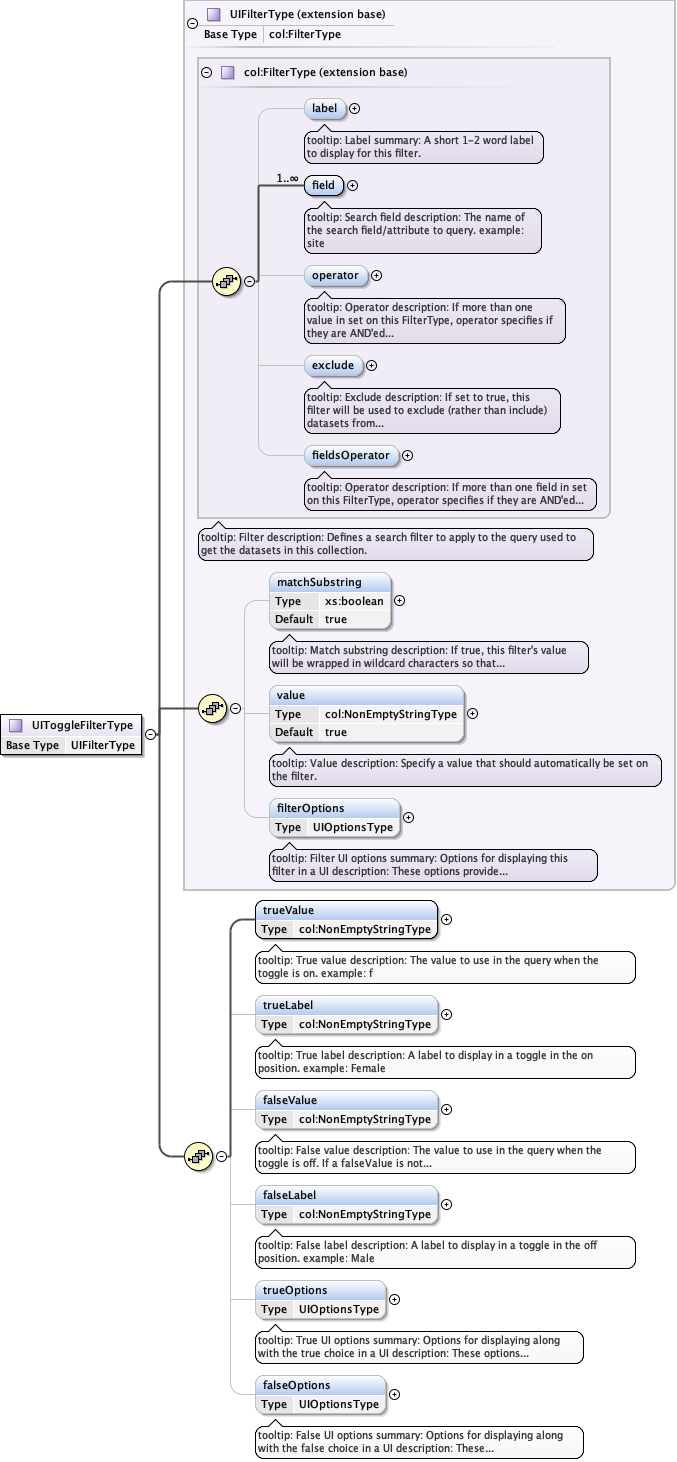
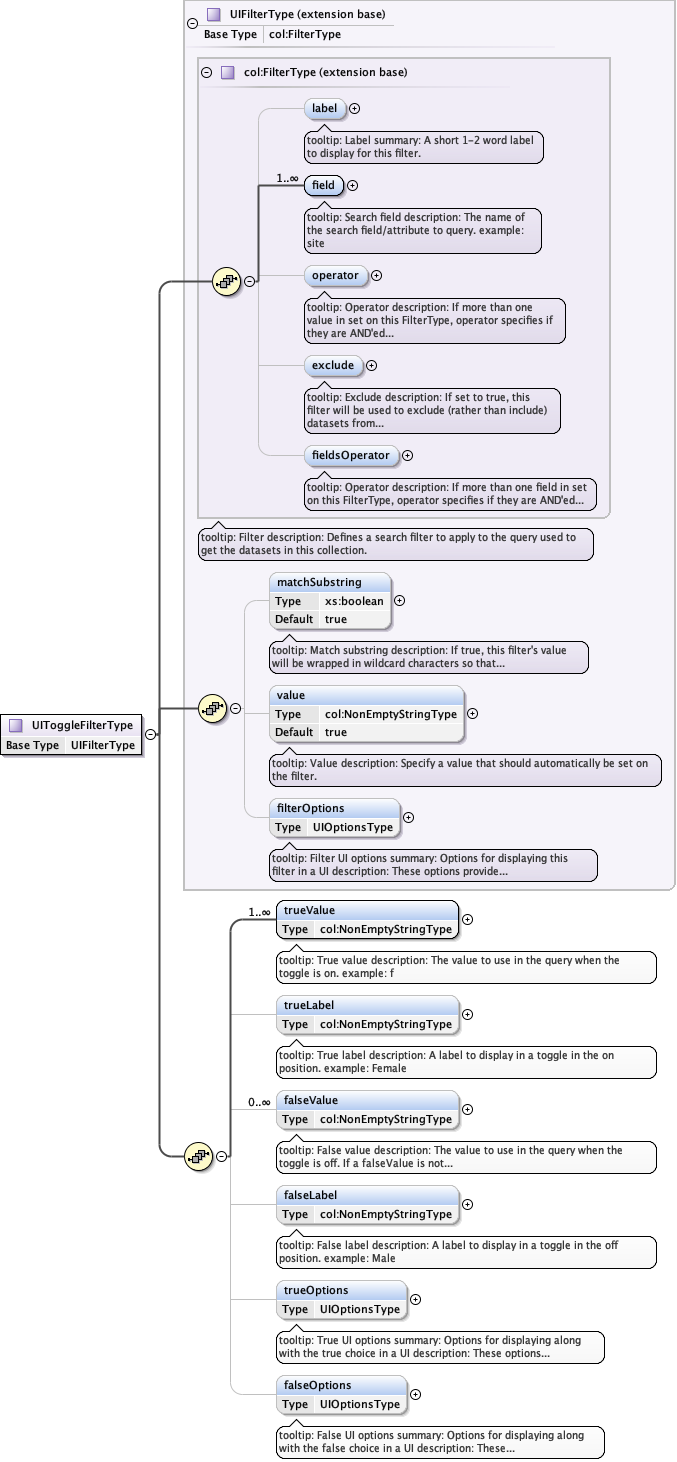
Update the docs & changelog with changes for issue #94

diff --git a/docs/web/schema/portals_xsd.html b/docs/web/schema/portals_xsd.html
@@ -6149,7 +6149,7 @@ var modelBoxes= new Array('model_portal',
                            <div class="floatRight"><input id="button_diagram_UIFilterGroupType_toggleFilter" type="image" src="img/btM.gif" value="-" onclick="switchState('diagram_UIFilterGroupType_toggleFilter');" class="control" /></div>
                         </td>
                         <td class="diagram">
-                           <div id="diagram_UIFilterGroupType_toggleFilter" style="display:block"><img alt="Diagram" border="0" src="img/portals_xsd_Element_toggleFilter.png" usemap="#portals_xsd_Element_toggleFilter" /><map name="portals_xsd_Element_toggleFilter" id="portals_xsd_Element_toggleFilter"><area alt="collections_xsd.tmp#FilterType_label" href="collections_xsd.html#FilterType_label" coords="348,156,404,180" /><area alt="collections_xsd.tmp#FilterType_field" href="collections_xsd.html#FilterType_field" coords="348,233,402,257" /><area alt="collections_xsd.tmp#FilterType_operator" href="collections_xsd.html#FilterType_operator" coords="348,323,426,347" /><area alt="collections_xsd.tmp#FilterType_exclude" href="collections_xsd.html#FilterType_exclude" coords="348,413,421,437" /><area alt="collections_xsd.tmp#FilterType_fieldsOperator" href="collections_xsd.html#FilterType_fieldsOperator" coords="348,503,457,527" /><area alt="collections_xsd.tmp#FilterType" href="collections_xsd.html#FilterType" coords="245,119,460,141" /><area alt="portals_xsd.tmp#UIFilterType_matchSubstring" href="portals_xsd.html#UIFilterType_matchSubstring" coords="313,630,449,690" /><area alt="portals_xsd.tmp#UIFilterType_value" href="portals_xsd.html#UIFilterType_value" coords="313,743,522,803" /><area alt="portals_xsd.tmp#UIFilterType_filterOptions" href="portals_xsd.html#UIFilterType_filterOptions" coords="313,856,458,898" /><area alt="portals_xsd.tmp#UIFilterType" href="portals_xsd.html#UIFilterType" coords="231,61,438,101" /><area alt="portals_xsd.tmp#UIToggleFilterType_trueValue" href="portals_xsd.html#UIToggleFilterType_trueValue" coords="299,958,496,1000" /><area alt="portals_xsd.tmp#UIToggleFilterType_trueLabel" href="portals_xsd.html#UIToggleFilterType_trueLabel" coords="299,1053,496,1095" /><area alt="portals_xsd.tmp#UIToggleFilterType_falseValue" href="portals_xsd.html#UIToggleFilterType_falseValue" coords="299,1148,496,1190" /><area alt="portals_xsd.tmp#UIToggleFilterType_falseLabel" href="portals_xsd.html#UIToggleFilterType_falseLabel" coords="299,1243,496,1285" /><area alt="portals_xsd.tmp#UIToggleFilterType_trueOptions" href="portals_xsd.html#UIToggleFilterType_trueOptions" coords="299,1338,444,1380" /><area alt="portals_xsd.tmp#UIToggleFilterType_falseOptions" href="portals_xsd.html#UIToggleFilterType_falseOptions" coords="299,1433,444,1475" /><area alt="portals_xsd.tmp#UIToggleFilterType" href="portals_xsd.html#UIToggleFilterType" coords="217,3,369,43" /></map></div>
+                           <div id="diagram_UIFilterGroupType_toggleFilter" style="display:block"><img alt="Diagram" border="0" src="img/portals_xsd_Element_toggleFilter.png" usemap="#portals_xsd_Element_toggleFilter" /><map name="portals_xsd_Element_toggleFilter" id="portals_xsd_Element_toggleFilter"><area alt="collections_xsd.tmp#FilterType_label" href="collections_xsd.html#FilterType_label" coords="348,156,404,180" /><area alt="collections_xsd.tmp#FilterType_field" href="collections_xsd.html#FilterType_field" coords="348,233,402,257" /><area alt="collections_xsd.tmp#FilterType_operator" href="collections_xsd.html#FilterType_operator" coords="348,323,426,347" /><area alt="collections_xsd.tmp#FilterType_exclude" href="collections_xsd.html#FilterType_exclude" coords="348,413,421,437" /><area alt="collections_xsd.tmp#FilterType_fieldsOperator" href="collections_xsd.html#FilterType_fieldsOperator" coords="348,503,457,527" /><area alt="collections_xsd.tmp#FilterType" href="collections_xsd.html#FilterType" coords="245,119,460,141" /><area alt="portals_xsd.tmp#UIFilterType_matchSubstring" href="portals_xsd.html#UIFilterType_matchSubstring" coords="313,630,449,690" /><area alt="portals_xsd.tmp#UIFilterType_value" href="portals_xsd.html#UIFilterType_value" coords="313,743,522,803" /><area alt="portals_xsd.tmp#UIFilterType_filterOptions" href="portals_xsd.html#UIFilterType_filterOptions" coords="313,856,458,898" /><area alt="portals_xsd.tmp#UIFilterType" href="portals_xsd.html#UIFilterType" coords="231,61,438,101" /><area alt="portals_xsd.tmp#UIToggleFilterType_trueValue" href="portals_xsd.html#UIToggleFilterType_trueValue" coords="320,958,517,1000" /><area alt="portals_xsd.tmp#UIToggleFilterType_trueLabel" href="portals_xsd.html#UIToggleFilterType_trueLabel" coords="320,1053,517,1095" /><area alt="portals_xsd.tmp#UIToggleFilterType_falseValue" href="portals_xsd.html#UIToggleFilterType_falseValue" coords="320,1148,517,1190" /><area alt="portals_xsd.tmp#UIToggleFilterType_falseLabel" href="portals_xsd.html#UIToggleFilterType_falseLabel" coords="320,1243,517,1285" /><area alt="portals_xsd.tmp#UIToggleFilterType_trueOptions" href="portals_xsd.html#UIToggleFilterType_trueOptions" coords="320,1338,465,1380" /><area alt="portals_xsd.tmp#UIToggleFilterType_falseOptions" href="portals_xsd.html#UIToggleFilterType_falseOptions" coords="320,1433,465,1475" /><area alt="portals_xsd.tmp#UIToggleFilterType" href="portals_xsd.html#UIToggleFilterType" coords="217,3,369,43" /></map></div>
                         </td>
                      </tr>
                      <tr>
@@ -6198,7 +6198,7 @@ var modelBoxes= new Array('model_portal',
                         <td class="firstColumn"><b>Model</b><div class="floatRight"><input id="button_model_UIFilterGroupType_toggleFilter" type="image" src="img/btM.gif" value="-" onclick="switchState('model_UIFilterGroupType_toggleFilter');" class="control" /></div>
                         </td>
                         <td>
-                           <div id="model_UIFilterGroupType_toggleFilter" style="display:block"><b><a href="collections_xsd.html#FilterType_label" target="mainFrame" title="No namespace" onclick="updatePageTitle('Schema documentation for collections.xsd')">label{0,1}</a></b> , <b><a href="collections_xsd.html#FilterType_field" target="mainFrame" title="No namespace" onclick="updatePageTitle('Schema documentation for collections.xsd')">field+</a></b> , <b><a href="collections_xsd.html#FilterType_operator" target="mainFrame" title="No namespace" onclick="updatePageTitle('Schema documentation for collections.xsd')">operator{0,1}</a></b> , <b><a href="collections_xsd.html#FilterType_exclude" target="mainFrame" title="No namespace" onclick="updatePageTitle('Schema documentation for collections.xsd')">exclude{0,1}</a></b> , <b><a href="collections_xsd.html#FilterType_fieldsOperator" target="mainFrame" title="No namespace" onclick="updatePageTitle('Schema documentation for collections.xsd')">fieldsOperator{0,1}</a></b> , <b><a href="portals_xsd.html#UIFilterType_matchSubstring" target="mainFrame" title="No namespace" onclick="updatePageTitle('Schema documentation for portals.xsd')">matchSubstring{0,1}</a></b> , <b><a href="portals_xsd.html#UIFilterType_value" target="mainFrame" title="No namespace" onclick="updatePageTitle('Schema documentation for portals.xsd')">value{0,1}</a></b> , <b><a href="portals_xsd.html#UIFilterType_filterOptions" target="mainFrame" title="No namespace" onclick="updatePageTitle('Schema documentation for portals.xsd')">filterOptions{0,1}</a></b> , <b><a href="portals_xsd.html#UIToggleFilterType_trueValue" target="mainFrame" title="No namespace" onclick="updatePageTitle('Schema documentation for portals.xsd')">trueValue</a></b> , <b><a href="portals_xsd.html#UIToggleFilterType_trueLabel" target="mainFrame" title="No namespace" onclick="updatePageTitle('Schema documentation for portals.xsd')">trueLabel{0,1}</a></b> , <b><a href="portals_xsd.html#UIToggleFilterType_falseValue" target="mainFrame" title="No namespace" onclick="updatePageTitle('Schema documentation for portals.xsd')">falseValue{0,1}</a></b> , <b><a href="portals_xsd.html#UIToggleFilterType_falseLabel" target="mainFrame" title="No namespace" onclick="updatePageTitle('Schema documentation for portals.xsd')">falseLabel{0,1}</a></b> , <b><a href="portals_xsd.html#UIToggleFilterType_trueOptions" target="mainFrame" title="No namespace" onclick="updatePageTitle('Schema documentation for portals.xsd')">trueOptions{0,1}</a></b> , <b><a href="portals_xsd.html#UIToggleFilterType_falseOptions" target="mainFrame" title="No namespace" onclick="updatePageTitle('Schema documentation for portals.xsd')">falseOptions{0,1}</a></b></div>
+                           <div id="model_UIFilterGroupType_toggleFilter" style="display:block"><b><a href="collections_xsd.html#FilterType_label" target="mainFrame" title="No namespace" onclick="updatePageTitle('Schema documentation for collections.xsd')">label{0,1}</a></b> , <b><a href="collections_xsd.html#FilterType_field" target="mainFrame" title="No namespace" onclick="updatePageTitle('Schema documentation for collections.xsd')">field+</a></b> , <b><a href="collections_xsd.html#FilterType_operator" target="mainFrame" title="No namespace" onclick="updatePageTitle('Schema documentation for collections.xsd')">operator{0,1}</a></b> , <b><a href="collections_xsd.html#FilterType_exclude" target="mainFrame" title="No namespace" onclick="updatePageTitle('Schema documentation for collections.xsd')">exclude{0,1}</a></b> , <b><a href="collections_xsd.html#FilterType_fieldsOperator" target="mainFrame" title="No namespace" onclick="updatePageTitle('Schema documentation for collections.xsd')">fieldsOperator{0,1}</a></b> , <b><a href="portals_xsd.html#UIFilterType_matchSubstring" target="mainFrame" title="No namespace" onclick="updatePageTitle('Schema documentation for portals.xsd')">matchSubstring{0,1}</a></b> , <b><a href="portals_xsd.html#UIFilterType_value" target="mainFrame" title="No namespace" onclick="updatePageTitle('Schema documentation for portals.xsd')">value{0,1}</a></b> , <b><a href="portals_xsd.html#UIFilterType_filterOptions" target="mainFrame" title="No namespace" onclick="updatePageTitle('Schema documentation for portals.xsd')">filterOptions{0,1}</a></b> , <b><a href="portals_xsd.html#UIToggleFilterType_trueValue" target="mainFrame" title="No namespace" onclick="updatePageTitle('Schema documentation for portals.xsd')">trueValue+</a></b> , <b><a href="portals_xsd.html#UIToggleFilterType_trueLabel" target="mainFrame" title="No namespace" onclick="updatePageTitle('Schema documentation for portals.xsd')">trueLabel{0,1}</a></b> , <b><a href="portals_xsd.html#UIToggleFilterType_falseValue" target="mainFrame" title="No namespace" onclick="updatePageTitle('Schema documentation for portals.xsd')">falseValue*</a></b> , <b><a href="portals_xsd.html#UIToggleFilterType_falseLabel" target="mainFrame" title="No namespace" onclick="updatePageTitle('Schema documentation for portals.xsd')">falseLabel{0,1}</a></b> , <b><a href="portals_xsd.html#UIToggleFilterType_trueOptions" target="mainFrame" title="No namespace" onclick="updatePageTitle('Schema documentation for portals.xsd')">trueOptions{0,1}</a></b> , <b><a href="portals_xsd.html#UIToggleFilterType_falseOptions" target="mainFrame" title="No namespace" onclick="updatePageTitle('Schema documentation for portals.xsd')">falseOptions{0,1}</a></b></div>
                         </td>
                      </tr>
                      <tr>
@@ -6224,9 +6224,9 @@ var modelBoxes= new Array('model_portal',
   </span><span class="tEl">&lt;matchSubstring</span><span class="tEl">&gt;</span><span class="tT" style="white-space:normal">{0,1}</span><span class="tEl">&lt;/matchSubstring&gt;</span><span class="tI">
   </span><span class="tEl">&lt;value</span><span class="tEl">&gt;</span><span class="tT" style="white-space:normal">{0,1}</span><span class="tEl">&lt;/value&gt;</span><span class="tI">
   </span><span class="tEl">&lt;filterOptions</span><span class="tEl">&gt;</span><span class="tT" style="white-space:normal">{0,1}</span><span class="tEl">&lt;/filterOptions&gt;</span><span class="tI">
-  </span><span class="tEl">&lt;trueValue</span><span class="tEl">&gt;</span><span class="tT" style="white-space:normal">{1,1}</span><span class="tEl">&lt;/trueValue&gt;</span><span class="tI">
+  </span><span class="tEl">&lt;trueValue</span><span class="tEl">&gt;</span><span class="tT" style="white-space:normal">{1,unbounded}</span><span class="tEl">&lt;/trueValue&gt;</span><span class="tI">
   </span><span class="tEl">&lt;trueLabel</span><span class="tEl">&gt;</span><span class="tT" style="white-space:normal">{0,1}</span><span class="tEl">&lt;/trueLabel&gt;</span><span class="tI">
-  </span><span class="tEl">&lt;falseValue</span><span class="tEl">&gt;</span><span class="tT" style="white-space:normal">{0,1}</span><span class="tEl">&lt;/falseValue&gt;</span><span class="tI">
+  </span><span class="tEl">&lt;falseValue</span><span class="tEl">&gt;</span><span class="tT" style="white-space:normal">{0,unbounded}</span><span class="tEl">&lt;/falseValue&gt;</span><span class="tI">
   </span><span class="tEl">&lt;falseLabel</span><span class="tEl">&gt;</span><span class="tT" style="white-space:normal">{0,1}</span><span class="tEl">&lt;/falseLabel&gt;</span><span class="tI">
   </span><span class="tEl">&lt;trueOptions</span><span class="tEl">&gt;</span><span class="tT" style="white-space:normal">{0,1}</span><span class="tEl">&lt;/trueOptions&gt;</span><span class="tI">
   </span><span class="tEl">&lt;falseOptions</span><span class="tEl">&gt;</span><span class="tT" style="white-space:normal">{0,1}</span><span class="tEl">&lt;/falseOptions&gt;</span><span class="tI">
@@ -6318,7 +6318,7 @@ var modelBoxes= new Array('model_portal',
                                  </tr>
                                  <tr>
                                     <td class="firstColumn" style="white-space: nowrap;">maxOccurs</td>
-                                    <td><b>1</b></td>
+                                    <td><b>unbounded</b></td>
                                  </tr>
                               </table>
                            </div>
@@ -6545,7 +6545,7 @@ var modelBoxes= new Array('model_portal',
                                  </tr>
                                  <tr>
                                     <td class="firstColumn" style="white-space: nowrap;">maxOccurs</td>
-                                    <td><b>1</b></td>
+                                    <td><b>unbounded</b></td>
                                  </tr>
                               </table>
                            </div>
@@ -7127,7 +7127,7 @@ var modelBoxes= new Array('model_portal',
                            <div class="floatRight"><input id="button_diagram_UIChoiceFilterType_choice" type="image" src="img/btM.gif" value="-" onclick="switchState('diagram_UIChoiceFilterType_choice');" class="control" /></div>
                         </td>
                         <td class="diagram">
-                           <div id="diagram_UIChoiceFilterType_choice" style="display:block"><img alt="Diagram" border="0" src="img/portals_xsd_Element_choice.png" usemap="#portals_xsd_Element_choice" /><map name="portals_xsd_Element_choice" id="portals_xsd_Element_choice"><area alt="portals_xsd.tmp#ChoiceType_label" href="portals_xsd.html#ChoiceType_label" coords="261,40,458,82" /><area alt="portals_xsd.tmp#ChoiceType_value" href="portals_xsd.html#ChoiceType_value" coords="261,135,458,177" /><area alt="portals_xsd.tmp#ChoiceType_choiceOptions" href="portals_xsd.html#ChoiceType_choiceOptions" coords="261,230,406,272" /><area alt="portals_xsd.tmp#ChoiceType" href="portals_xsd.html#ChoiceType" coords="179,3,293,25" /></map></div>
+                           <div id="diagram_UIChoiceFilterType_choice" style="display:block"><img alt="Diagram" border="0" src="img/portals_xsd_Element_choice.png" usemap="#portals_xsd_Element_choice" /><map name="portals_xsd_Element_choice" id="portals_xsd_Element_choice"><area alt="portals_xsd.tmp#ChoiceType_label" href="portals_xsd.html#ChoiceType_label" coords="282,40,479,82" /><area alt="portals_xsd.tmp#ChoiceType_value" href="portals_xsd.html#ChoiceType_value" coords="282,135,479,177" /><area alt="portals_xsd.tmp#ChoiceType_choiceOptions" href="portals_xsd.html#ChoiceType_choiceOptions" coords="282,230,427,272" /><area alt="portals_xsd.tmp#ChoiceType" href="portals_xsd.html#ChoiceType" coords="179,3,293,25" /></map></div>
                         </td>
                      </tr>
                      <tr>
@@ -7162,7 +7162,7 @@ var modelBoxes= new Array('model_portal',
                         <td class="firstColumn"><b>Model</b><div class="floatRight"><input id="button_model_UIChoiceFilterType_choice" type="image" src="img/btM.gif" value="-" onclick="switchState('model_UIChoiceFilterType_choice');" class="control" /></div>
                         </td>
                         <td>
-                           <div id="model_UIChoiceFilterType_choice" style="display:block"><b><a href="portals_xsd.html#ChoiceType_label" target="mainFrame" title="No namespace" onclick="updatePageTitle('Schema documentation for portals.xsd')">label</a></b> , <b><a href="portals_xsd.html#ChoiceType_value" target="mainFrame" title="No namespace" onclick="updatePageTitle('Schema documentation for portals.xsd')">value</a></b> , <b><a href="portals_xsd.html#ChoiceType_choiceOptions" target="mainFrame" title="No namespace" onclick="updatePageTitle('Schema documentation for portals.xsd')">choiceOptions{0,1}</a></b></div>
+                           <div id="model_UIChoiceFilterType_choice" style="display:block"><b><a href="portals_xsd.html#ChoiceType_label" target="mainFrame" title="No namespace" onclick="updatePageTitle('Schema documentation for portals.xsd')">label{0,1}</a></b> , <b><a href="portals_xsd.html#ChoiceType_value" target="mainFrame" title="No namespace" onclick="updatePageTitle('Schema documentation for portals.xsd')">value+</a></b> , <b><a href="portals_xsd.html#ChoiceType_choiceOptions" target="mainFrame" title="No namespace" onclick="updatePageTitle('Schema documentation for portals.xsd')">choiceOptions{0,1}</a></b></div>
                         </td>
                      </tr>
                      <tr>
@@ -7180,8 +7180,8 @@ var modelBoxes= new Array('model_portal',
                                  <tr>
                                     <td width="100%">
                                        <pre><span class="tEl">&lt;choice</span><span class="tEl">&gt;</span><span class="tI">
-  </span><span class="tEl">&lt;label</span><span class="tEl">&gt;</span><span class="tT" style="white-space:normal">{1,1}</span><span class="tEl">&lt;/label&gt;</span><span class="tI">
-  </span><span class="tEl">&lt;value</span><span class="tEl">&gt;</span><span class="tT" style="white-space:normal">{1,1}</span><span class="tEl">&lt;/value&gt;</span><span class="tI">
+  </span><span class="tEl">&lt;label</span><span class="tEl">&gt;</span><span class="tT" style="white-space:normal">{0,1}</span><span class="tEl">&lt;/label&gt;</span><span class="tI">
+  </span><span class="tEl">&lt;value</span><span class="tEl">&gt;</span><span class="tT" style="white-space:normal">{1,unbounded}</span><span class="tEl">&lt;/value&gt;</span><span class="tI">
   </span><span class="tEl">&lt;choiceOptions</span><span class="tEl">&gt;</span><span class="tT" style="white-space:normal">{0,1}</span><span class="tEl">&lt;/choiceOptions&gt;</span><span class="tI">
 </span><span class="tEl">&lt;/choice&gt;</span></pre>
                                     </td>
@@ -7230,7 +7230,7 @@ var modelBoxes= new Array('model_portal',
                                           <pre><span class="tT">tooltip: Label</span><span class="tI">
 </span><span class="tT"></span><span class="tI">
 </span><span class="tT">description: A short label to display in the user interface for this filter</span><span class="tI">
-</span><span class="tT">              value.</span></pre>
+</span><span class="tT">              value. If not provided, the value or list of values will be used instead.</span></pre>
                                        </td>
                                     </tr>
                                  </table>
@@ -7265,7 +7265,7 @@ var modelBoxes= new Array('model_portal',
                                  </tr>
                                  <tr>
                                     <td class="firstColumn" style="white-space: nowrap;">minOccurs</td>
-                                    <td><b>1</b></td>
+                                    <td><b>0</b></td>
                                  </tr>
                                  <tr>
                                     <td class="firstColumn" style="white-space: nowrap;">maxOccurs</td>
@@ -7380,7 +7380,7 @@ var modelBoxes= new Array('model_portal',
                                  </tr>
                                  <tr>
                                     <td class="firstColumn" style="white-space: nowrap;">maxOccurs</td>
-                                    <td><b>1</b></td>
+                                    <td><b>unbounded</b></td>
                                  </tr>
                               </table>
                            </div>
@@ -8477,7 +8477,7 @@ var modelBoxes= new Array('model_portal',
                            <div class="floatRight"><input id="button_diagram_UIToggleFilterType" type="image" src="img/btM.gif" value="-" onclick="switchState('diagram_UIToggleFilterType');" class="control" /></div>
                         </td>
                         <td class="diagram">
-                           <div id="diagram_UIToggleFilterType" style="display:block"><img alt="Diagram" border="0" src="img/portals_xsd_Complex_Type_UIToggleFilterType.png" usemap="#portals_xsd_Complex_Type_UIToggleFilterType" /><map name="portals_xsd_Complex_Type_UIToggleFilterType" id="portals_xsd_Complex_Type_UIToggleFilterType"><area alt="collections_xsd.tmp#FilterType_label" href="collections_xsd.html#FilterType_label" coords="304,98,360,122" /><area alt="collections_xsd.tmp#FilterType_field" href="collections_xsd.html#FilterType_field" coords="304,175,358,199" /><area alt="collections_xsd.tmp#FilterType_operator" href="collections_xsd.html#FilterType_operator" coords="304,265,382,289" /><area alt="collections_xsd.tmp#FilterType_exclude" href="collections_xsd.html#FilterType_exclude" coords="304,355,377,379" /><area alt="collections_xsd.tmp#FilterType_fieldsOperator" href="collections_xsd.html#FilterType_fieldsOperator" coords="304,445,413,469" /><area alt="collections_xsd.tmp#FilterType" href="collections_xsd.html#FilterType" coords="201,61,416,83" /><area alt="portals_xsd.tmp#UIFilterType_matchSubstring" href="portals_xsd.html#UIFilterType_matchSubstring" coords="269,572,405,632" /><area alt="portals_xsd.tmp#UIFilterType_value" href="portals_xsd.html#UIFilterType_value" coords="269,685,478,745" /><area alt="portals_xsd.tmp#UIFilterType_filterOptions" href="portals_xsd.html#UIFilterType_filterOptions" coords="269,798,414,840" /><area alt="portals_xsd.tmp#UIFilterType" href="portals_xsd.html#UIFilterType" coords="187,3,394,43" /><area alt="portals_xsd.tmp#UIToggleFilterType_trueValue" href="portals_xsd.html#UIToggleFilterType_trueValue" coords="255,900,452,942" /><area alt="portals_xsd.tmp#UIToggleFilterType_trueLabel" href="portals_xsd.html#UIToggleFilterType_trueLabel" coords="255,995,452,1037" /><area alt="portals_xsd.tmp#UIToggleFilterType_falseValue" href="portals_xsd.html#UIToggleFilterType_falseValue" coords="255,1090,452,1132" /><area alt="portals_xsd.tmp#UIToggleFilterType_falseLabel" href="portals_xsd.html#UIToggleFilterType_falseLabel" coords="255,1185,452,1227" /><area alt="portals_xsd.tmp#UIToggleFilterType_trueOptions" href="portals_xsd.html#UIToggleFilterType_trueOptions" coords="255,1280,400,1322" /><area alt="portals_xsd.tmp#UIToggleFilterType_falseOptions" href="portals_xsd.html#UIToggleFilterType_falseOptions" coords="255,1375,400,1417" /></map></div>
+                           <div id="diagram_UIToggleFilterType" style="display:block"><img alt="Diagram" border="0" src="img/portals_xsd_Complex_Type_UIToggleFilterType.png" usemap="#portals_xsd_Complex_Type_UIToggleFilterType" /><map name="portals_xsd_Complex_Type_UIToggleFilterType" id="portals_xsd_Complex_Type_UIToggleFilterType"><area alt="collections_xsd.tmp#FilterType_label" href="collections_xsd.html#FilterType_label" coords="304,98,360,122" /><area alt="collections_xsd.tmp#FilterType_field" href="collections_xsd.html#FilterType_field" coords="304,175,358,199" /><area alt="collections_xsd.tmp#FilterType_operator" href="collections_xsd.html#FilterType_operator" coords="304,265,382,289" /><area alt="collections_xsd.tmp#FilterType_exclude" href="collections_xsd.html#FilterType_exclude" coords="304,355,377,379" /><area alt="collections_xsd.tmp#FilterType_fieldsOperator" href="collections_xsd.html#FilterType_fieldsOperator" coords="304,445,413,469" /><area alt="collections_xsd.tmp#FilterType" href="collections_xsd.html#FilterType" coords="201,61,416,83" /><area alt="portals_xsd.tmp#UIFilterType_matchSubstring" href="portals_xsd.html#UIFilterType_matchSubstring" coords="269,572,405,632" /><area alt="portals_xsd.tmp#UIFilterType_value" href="portals_xsd.html#UIFilterType_value" coords="269,685,478,745" /><area alt="portals_xsd.tmp#UIFilterType_filterOptions" href="portals_xsd.html#UIFilterType_filterOptions" coords="269,798,414,840" /><area alt="portals_xsd.tmp#UIFilterType" href="portals_xsd.html#UIFilterType" coords="187,3,394,43" /><area alt="portals_xsd.tmp#UIToggleFilterType_trueValue" href="portals_xsd.html#UIToggleFilterType_trueValue" coords="276,900,473,942" /><area alt="portals_xsd.tmp#UIToggleFilterType_trueLabel" href="portals_xsd.html#UIToggleFilterType_trueLabel" coords="276,995,473,1037" /><area alt="portals_xsd.tmp#UIToggleFilterType_falseValue" href="portals_xsd.html#UIToggleFilterType_falseValue" coords="276,1090,473,1132" /><area alt="portals_xsd.tmp#UIToggleFilterType_falseLabel" href="portals_xsd.html#UIToggleFilterType_falseLabel" coords="276,1185,473,1227" /><area alt="portals_xsd.tmp#UIToggleFilterType_trueOptions" href="portals_xsd.html#UIToggleFilterType_trueOptions" coords="276,1280,421,1322" /><area alt="portals_xsd.tmp#UIToggleFilterType_falseOptions" href="portals_xsd.html#UIToggleFilterType_falseOptions" coords="276,1375,421,1417" /></map></div>
                         </td>
                      </tr>
                      <tr>
@@ -8502,7 +8502,7 @@ var modelBoxes= new Array('model_portal',
                         <td class="firstColumn"><b>Model</b><div class="floatRight"><input id="button_model_UIToggleFilterType" type="image" src="img/btM.gif" value="-" onclick="switchState('model_UIToggleFilterType');" class="control" /></div>
                         </td>
                         <td>
-                           <div id="model_UIToggleFilterType" style="display:block"><b><a href="collections_xsd.html#FilterType_label" target="mainFrame" title="No namespace" onclick="updatePageTitle('Schema documentation for collections.xsd')">label{0,1}</a></b> , <b><a href="collections_xsd.html#FilterType_field" target="mainFrame" title="No namespace" onclick="updatePageTitle('Schema documentation for collections.xsd')">field+</a></b> , <b><a href="collections_xsd.html#FilterType_operator" target="mainFrame" title="No namespace" onclick="updatePageTitle('Schema documentation for collections.xsd')">operator{0,1}</a></b> , <b><a href="collections_xsd.html#FilterType_exclude" target="mainFrame" title="No namespace" onclick="updatePageTitle('Schema documentation for collections.xsd')">exclude{0,1}</a></b> , <b><a href="collections_xsd.html#FilterType_fieldsOperator" target="mainFrame" title="No namespace" onclick="updatePageTitle('Schema documentation for collections.xsd')">fieldsOperator{0,1}</a></b> , <b><a href="portals_xsd.html#UIFilterType_matchSubstring" target="mainFrame" title="No namespace" onclick="updatePageTitle('Schema documentation for portals.xsd')">matchSubstring{0,1}</a></b> , <b><a href="portals_xsd.html#UIFilterType_value" target="mainFrame" title="No namespace" onclick="updatePageTitle('Schema documentation for portals.xsd')">value{0,1}</a></b> , <b><a href="portals_xsd.html#UIFilterType_filterOptions" target="mainFrame" title="No namespace" onclick="updatePageTitle('Schema documentation for portals.xsd')">filterOptions{0,1}</a></b> , <b><a href="portals_xsd.html#UIToggleFilterType_trueValue" target="mainFrame" title="No namespace" onclick="updatePageTitle('Schema documentation for portals.xsd')">trueValue</a></b> , <b><a href="portals_xsd.html#UIToggleFilterType_trueLabel" target="mainFrame" title="No namespace" onclick="updatePageTitle('Schema documentation for portals.xsd')">trueLabel{0,1}</a></b> , <b><a href="portals_xsd.html#UIToggleFilterType_falseValue" target="mainFrame" title="No namespace" onclick="updatePageTitle('Schema documentation for portals.xsd')">falseValue{0,1}</a></b> , <b><a href="portals_xsd.html#UIToggleFilterType_falseLabel" target="mainFrame" title="No namespace" onclick="updatePageTitle('Schema documentation for portals.xsd')">falseLabel{0,1}</a></b> , <b><a href="portals_xsd.html#UIToggleFilterType_trueOptions" target="mainFrame" title="No namespace" onclick="updatePageTitle('Schema documentation for portals.xsd')">trueOptions{0,1}</a></b> , <b><a href="portals_xsd.html#UIToggleFilterType_falseOptions" target="mainFrame" title="No namespace" onclick="updatePageTitle('Schema documentation for portals.xsd')">falseOptions{0,1}</a></b></div>
+                           <div id="model_UIToggleFilterType" style="display:block"><b><a href="collections_xsd.html#FilterType_label" target="mainFrame" title="No namespace" onclick="updatePageTitle('Schema documentation for collections.xsd')">label{0,1}</a></b> , <b><a href="collections_xsd.html#FilterType_field" target="mainFrame" title="No namespace" onclick="updatePageTitle('Schema documentation for collections.xsd')">field+</a></b> , <b><a href="collections_xsd.html#FilterType_operator" target="mainFrame" title="No namespace" onclick="updatePageTitle('Schema documentation for collections.xsd')">operator{0,1}</a></b> , <b><a href="collections_xsd.html#FilterType_exclude" target="mainFrame" title="No namespace" onclick="updatePageTitle('Schema documentation for collections.xsd')">exclude{0,1}</a></b> , <b><a href="collections_xsd.html#FilterType_fieldsOperator" target="mainFrame" title="No namespace" onclick="updatePageTitle('Schema documentation for collections.xsd')">fieldsOperator{0,1}</a></b> , <b><a href="portals_xsd.html#UIFilterType_matchSubstring" target="mainFrame" title="No namespace" onclick="updatePageTitle('Schema documentation for portals.xsd')">matchSubstring{0,1}</a></b> , <b><a href="portals_xsd.html#UIFilterType_value" target="mainFrame" title="No namespace" onclick="updatePageTitle('Schema documentation for portals.xsd')">value{0,1}</a></b> , <b><a href="portals_xsd.html#UIFilterType_filterOptions" target="mainFrame" title="No namespace" onclick="updatePageTitle('Schema documentation for portals.xsd')">filterOptions{0,1}</a></b> , <b><a href="portals_xsd.html#UIToggleFilterType_trueValue" target="mainFrame" title="No namespace" onclick="updatePageTitle('Schema documentation for portals.xsd')">trueValue+</a></b> , <b><a href="portals_xsd.html#UIToggleFilterType_trueLabel" target="mainFrame" title="No namespace" onclick="updatePageTitle('Schema documentation for portals.xsd')">trueLabel{0,1}</a></b> , <b><a href="portals_xsd.html#UIToggleFilterType_falseValue" target="mainFrame" title="No namespace" onclick="updatePageTitle('Schema documentation for portals.xsd')">falseValue*</a></b> , <b><a href="portals_xsd.html#UIToggleFilterType_falseLabel" target="mainFrame" title="No namespace" onclick="updatePageTitle('Schema documentation for portals.xsd')">falseLabel{0,1}</a></b> , <b><a href="portals_xsd.html#UIToggleFilterType_trueOptions" target="mainFrame" title="No namespace" onclick="updatePageTitle('Schema documentation for portals.xsd')">trueOptions{0,1}</a></b> , <b><a href="portals_xsd.html#UIToggleFilterType_falseOptions" target="mainFrame" title="No namespace" onclick="updatePageTitle('Schema documentation for portals.xsd')">falseOptions{0,1}</a></b></div>
                         </td>
                      </tr>
                      <tr>
@@ -8605,14 +8605,14 @@ var modelBoxes= new Array('model_portal',
                            <div class="floatRight"><input id="button_diagram_ChoiceType" type="image" src="img/btM.gif" value="-" onclick="switchState('diagram_ChoiceType');" class="control" /></div>
                         </td>
                         <td class="diagram">
-                           <div id="diagram_ChoiceType" style="display:block"><img alt="Diagram" border="0" src="img/portals_xsd_Complex_Type_ChoiceType.png" usemap="#portals_xsd_Complex_Type_ChoiceType" /><map name="portals_xsd_Complex_Type_ChoiceType" id="portals_xsd_Complex_Type_ChoiceType"><area alt="portals_xsd.tmp#ChoiceType_label" href="portals_xsd.html#ChoiceType_label" coords="217,0,414,42" /><area alt="portals_xsd.tmp#ChoiceType_value" href="portals_xsd.html#ChoiceType_value" coords="217,95,414,137" /><area alt="portals_xsd.tmp#ChoiceType_choiceOptions" href="portals_xsd.html#ChoiceType_choiceOptions" coords="217,190,362,232" /></map></div>
+                           <div id="diagram_ChoiceType" style="display:block"><img alt="Diagram" border="0" src="img/portals_xsd_Complex_Type_ChoiceType.png" usemap="#portals_xsd_Complex_Type_ChoiceType" /><map name="portals_xsd_Complex_Type_ChoiceType" id="portals_xsd_Complex_Type_ChoiceType"><area alt="portals_xsd.tmp#ChoiceType_label" href="portals_xsd.html#ChoiceType_label" coords="238,0,435,42" /><area alt="portals_xsd.tmp#ChoiceType_value" href="portals_xsd.html#ChoiceType_value" coords="238,95,435,137" /><area alt="portals_xsd.tmp#ChoiceType_choiceOptions" href="portals_xsd.html#ChoiceType_choiceOptions" coords="238,190,383,232" /></map></div>
                         </td>
                      </tr>
                      <tr>
                         <td class="firstColumn"><b>Model</b><div class="floatRight"><input id="button_model_ChoiceType" type="image" src="img/btM.gif" value="-" onclick="switchState('model_ChoiceType');" class="control" /></div>
                         </td>
                         <td>
-                           <div id="model_ChoiceType" style="display:block"><b><a href="portals_xsd.html#ChoiceType_label" target="mainFrame" title="No namespace" onclick="updatePageTitle('Schema documentation for portals.xsd')">label</a></b> , <b><a href="portals_xsd.html#ChoiceType_value" target="mainFrame" title="No namespace" onclick="updatePageTitle('Schema documentation for portals.xsd')">value</a></b> , <b><a href="portals_xsd.html#ChoiceType_choiceOptions" target="mainFrame" title="No namespace" onclick="updatePageTitle('Schema documentation for portals.xsd')">choiceOptions{0,1}</a></b></div>
+                           <div id="model_ChoiceType" style="display:block"><b><a href="portals_xsd.html#ChoiceType_label" target="mainFrame" title="No namespace" onclick="updatePageTitle('Schema documentation for portals.xsd')">label{0,1}</a></b> , <b><a href="portals_xsd.html#ChoiceType_value" target="mainFrame" title="No namespace" onclick="updatePageTitle('Schema documentation for portals.xsd')">value+</a></b> , <b><a href="portals_xsd.html#ChoiceType_choiceOptions" target="mainFrame" title="No namespace" onclick="updatePageTitle('Schema documentation for portals.xsd')">choiceOptions{0,1}</a></b></div>
                         </td>
                      </tr>
                      <tr>

diff --git a/docs/web/schema/collections_xsd.html b/docs/web/schema/collections_xsd.html
@@ -2525,9 +2525,9 @@ var modelBoxes= new Array('model_CollectionType_definition',
                                           <pre><span class="tT">tooltip: Exact date</span><span class="tI">
 </span><span class="tT"></span><span class="tI">
 </span><span class="tT">description: If a value is set on a NumericFilter, the query will filter by</span><span class="tI">
-</span><span class="tT">                    datasets whose given field(s) match this specific number.</span><span class="tI">
+</span><span class="tT">                    datasets whose given field(s) match this specific number or numbers.</span><span class="tI">
 </span><span class="tT"></span><span class="tI">
-</span><span class="tT">example: 1980-03-23T10:20:15</span></pre>
+</span><span class="tT">example: 123.456</span></pre>
                                        </td>
                                     </tr>
                                  </table>

diff --git a/build-docs/README.md b/build-docs/README.md
@@ -6,10 +6,10 @@ The `build-docs` directory contains files required to create documentation for t
 
 To build this documentation, you will need the following:
 
-1. [Oxygen **All Platforms** distribution (Windows, Linux/Unix, etc)](https://www.oxygenxml.com/xml_editor/download_oxygenxml_editor.html?os=Other), version 23.0. Only the distribution for all platforms contains the `schemaDocumentation.sh` script we need to build the documentation. See installation instructions for each platform further down on the download page.
+1. [Oxygen **All Platforms** distribution (Windows, Linux/Unix, etc)](https://www.oxygenxml.com/xml_editor/download_oxygenxml_editor.html?os=Other), version 23.0. Only the distribution for all platforms contains the `schemaDocumentation.sh` script required to build the documentation. See installation instructions for each platform further down on the download page.
 2. [Java](https://www.java.com/en/) installed, in order to install Oxygen.
 3. A license for Oxygen XML Editor. A [30 day trial](https://www.oxygenxml.com/xml_editor/register.html) is available.
-4. An Oxygen Scripting license. Trial scripting licenses are available by request by emailing sales@oxygenxml.com. Copy your Oxygen Scripting license key in a file named `scriptinglicensekey.txt` and save it in the main application directory (the parent directory of Oxygen's "scripts" directory).
+4. An Oxygen Scripting license. Trial scripting licenses are available by request by emailing sales@oxygenxml.com. Copy your Oxygen Scripting license key in a file named `scriptinglicensekey.txt` and save it in the main application directory (the parent directory of Oxygen's `scripts` directory).
 
 ## How to build the docs after making edits to the Collections or Portals schemas
 

diff --git a/CHANGELOG.md b/CHANGELOG.md
@@ -37,7 +37,9 @@
 
 ## ⭐ Minor enhancements:
 
-- Allow an image, icon, and description for each `<choice>` element within `ChoiceType`, as well as for both the true (`<trueOptions>`) and the false (`<falseOptions>`) options in `UIToggleFilterType` elements. - [#78](https://github.com/DataONEorg/collections-portals-schemas/issues/78)
-- Allow `<image>` and `<option>` elements within `<associatedParty>` - [#86](https://github.com/DataONEorg/collections-portals-schemas/issues/86)
+- Allow an image, icon, and description for each `<choice>` element within `ChoiceType`, as well as for both the true (`<trueOptions>`) and the false (`<falseOptions>`) options in `UIToggleFilterType` elements. ([#78](https://github.com/DataONEorg/collections-portals-schemas/issues/78))
+- Make `<label>` optional in `ChoiceType` (`<choice>`) elements, but allow more than one `<value>` ([#94](https://github.com/DataONEorg/collections-portals-schemas/issues/94))
+- Allow multiple `<trueValue>` and `<falseValue>` elements in a `UIToggleFilterType` ([#94](https://github.com/DataONEorg/collections-portals-schemas/issues/94))
+- Allow `<image>` and `<option>` elements within `<associatedParty>` ([#86](https://github.com/DataONEorg/collections-portals-schemas/issues/86))
 - Allow `<option>` elements in UIFilterGroupsType (i.e. the custom search filter `<filterGroups>`)
 - Make indentation and white space consistent
